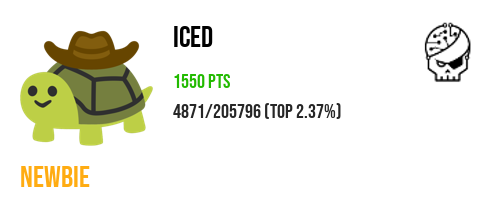
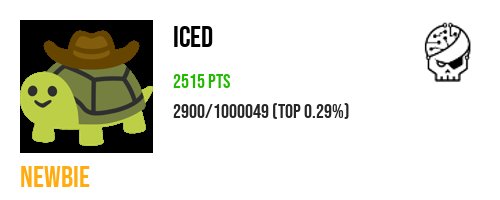
from serv

Changed region(s): [[0.03, 0.09, 0.72, 0.78]]

diff --git a/index.html b/index.html
@@ -82,14 +82,14 @@
             <div class="chart" data-percent="70">PHP</div>
             <div class="chart" data-percent="60">C</div>
             <div class="chart" data-percent="55">C#</div>
-            <div class="chart" data-percent="65">Python</div>
+            <div class="chart" data-percent="90">Python</div>
         </div>
 
 
 
         <p class="myP">
-            Je me présente, Robin ZMUDA, 20 ans. Actuellement en Mastère 1 à l'école Bordeaux Ynov Campus et alternant chez
-            Knock Knock, je touche à divers domaines pouvant me plaire mais je me dirige vers la cybersécurité côté blue team.
+            Je me présente, Robin ZMUDA, 22 ans. Actuellement en Mastère 2 à l'école Bordeaux Ynov Campus et alternant chez
+            Knock Knock, je touche à divers domaines pouvant me plaire mais je me dirige vers la cybersécurité côté red team.
             <br>
             <br>
             Je suis titulaire d'un Bachelor Concepteur de Systèmes d'informations à Cs2i Bourgogne en alternance chez Némésis Studio.